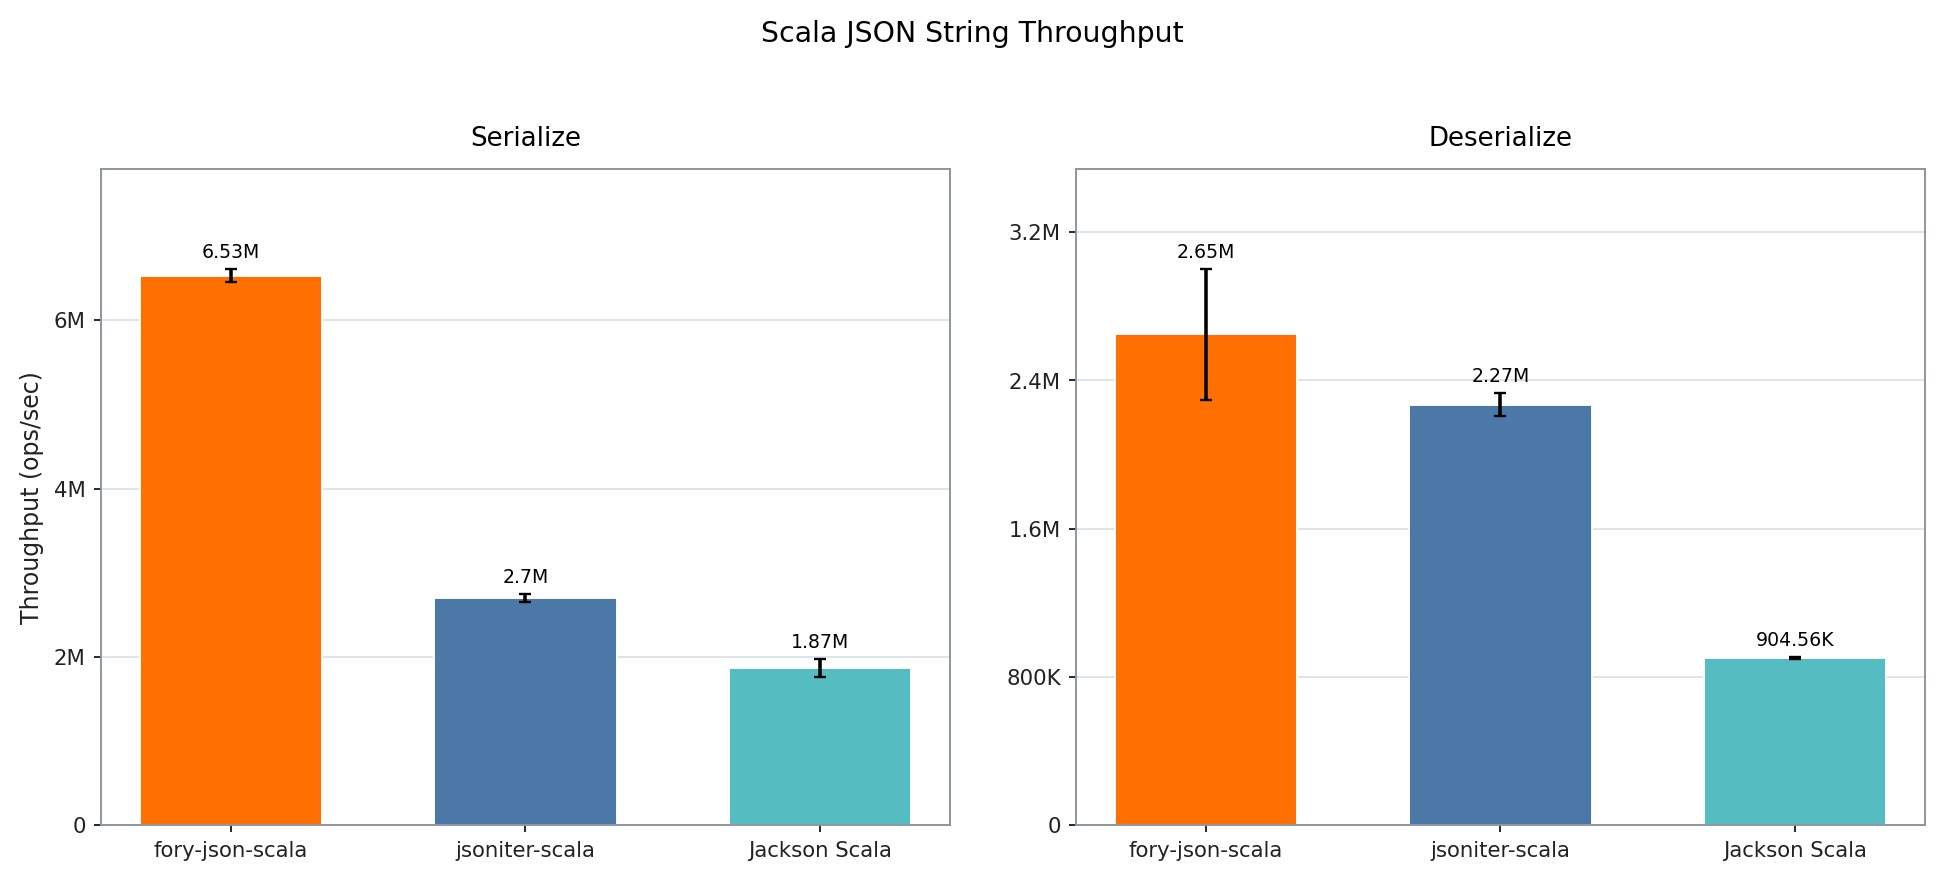
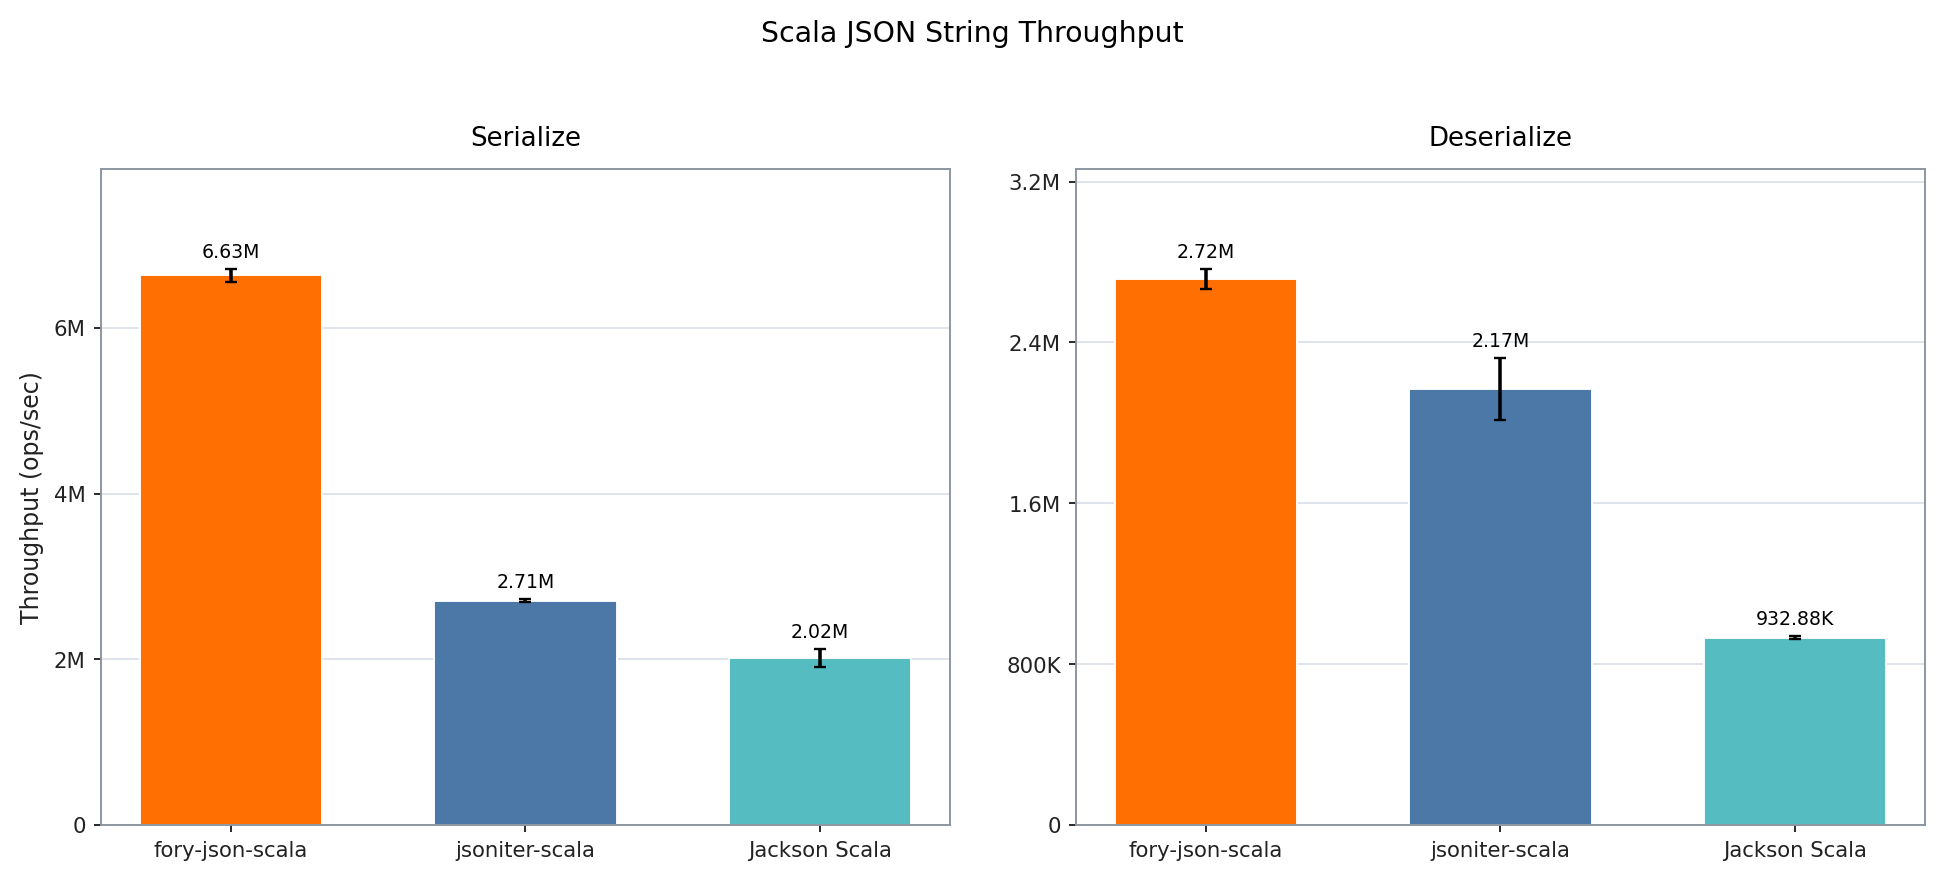
docs(scala): refresh JSON benchmark results

diff --git a/docs/benchmarks/json/scala/README.md b/docs/benchmarks/json/scala/README.md
@@ -3,8 +3,8 @@
 The benchmark compares fory-json-scala, jsoniter-scala, and Jackson Scala on the same immutable Scala MediaContent model and Eishay JSON document. The String group excludes UTF-8 conversion; every library in the UTF-8 group uses its direct byte-array API.
 
 - Benchmark date: `2026-08-14`
-- Source commit: `cbecf1782c06ffeb28b4a08c1b409e259ff4148f`
-- Platform: macOS-15.7.2-arm64-arm-64bit
+- Source commit: `05670052978e76f1ae5b6df74049dc9bad790019`
+- Platform: macOS-15.7.2-arm64-arm-64bit (arm64)
 - JDK: `26.0.1`
 - VM: `OpenJDK 64-Bit Server VM`
 - JMH: `1.37`
@@ -26,16 +26,16 @@ The benchmark compares fory-json-scala, jsoniter-scala, and Jackson Scala on the
 
 | Representation | Operation   | fory-json-scala ops/sec | jsoniter-scala ops/sec | Jackson Scala ops/sec | Fastest         |
 | -------------- | ----------- | ----------------------: | ---------------------: | --------------------: | --------------- |
-| String         | Serialize   |               6,527,339 |              2,701,302 |             1,865,102 | fory-json-scala |
-| String         | Deserialize |               2,647,817 |              2,269,640 |               904,560 | fory-json-scala |
-| UTF-8 bytes    | Serialize   |               9,521,301 |              2,765,106 |             1,674,174 | fory-json-scala |
-| UTF-8 bytes    | Deserialize |               2,247,226 |              2,237,662 |             1,053,937 | fory-json-scala |
+| String         | Serialize   |               6,633,363 |              2,709,254 |             2,016,233 | fory-json-scala |
+| String         | Deserialize |               2,716,257 |              2,171,056 |               932,881 | fory-json-scala |
+| UTF-8 bytes    | Serialize   |               9,116,849 |              2,797,010 |             1,710,957 | fory-json-scala |
+| UTF-8 bytes    | Deserialize |               2,354,314 |              2,225,435 |             1,053,413 | fory-json-scala |
 
 ## Fory performance advantage
 
 | Representation | Operation   | vs jsoniter-scala | vs Jackson Scala |
 | -------------- | ----------- | ----------------: | ---------------: |
-| String         | Serialize   |            141.6% |           250.0% |
-| String         | Deserialize |             16.7% |           192.7% |
-| UTF-8 bytes    | Serialize   |            244.3% |           468.7% |
-| UTF-8 bytes    | Deserialize |              0.4% |           113.2% |
+| String         | Serialize   |            144.8% |           229.0% |
+| String         | Deserialize |             25.1% |           191.2% |
+| UTF-8 bytes    | Serialize   |            225.9% |           432.9% |
+| UTF-8 bytes    | Deserialize |              5.8% |           123.5% |
